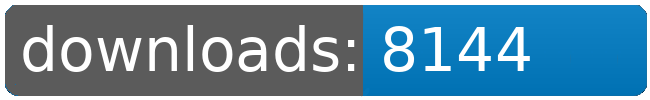
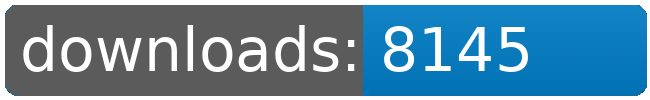
dl log written

Changed region(s): [[0.7692, 0.27, 0.8308, 0.72]]

diff --git a/README.md b/README.md
@@ -4,113 +4,113 @@
 <table>
 	<tr>
 		<td></td>
-		<td>2026-07-20</td>
 		<td>2026-07-21</td>
 		<td>2026-07-22</td>
 		<td>2026-07-23</td>
 		<td>2026-07-24</td>
 		<td>2026-07-25</td>
 		<td>2026-07-26</td>
+		<td>2026-07-27</td>
 		<td>today +</td>
 	</tr>
 	<tr>
 		<td>Bunsen.Burner</td>
-		<td>7667</td>
 		<td>7681</td>
 		<td>7695</td>
 		<td>7709</td>
 		<td>7723</td>
 		<td>7738</td>
 		<td>7755</td>
-		<td>+ 17</td>
+		<td>7755</td>
+		<td></td>
 	</tr>
 	<tr>
 		<td>Factory.Outlets</td>
-		<td>6748</td>
 		<td>6763</td>
 		<td>6777</td>
 		<td>6794</td>
 		<td>6809</td>
 		<td>6824</td>
 		<td>6840</td>
-		<td>+ 16</td>
+		<td>6840</td>
+		<td></td>
 	</tr>
 	<tr>
 		<td>Fundamental.Outfit.Expansion</td>
-		<td>8047</td>
 		<td>8063</td>
 		<td>8076</td>
 		<td>8094</td>
 		<td>8110</td>
 		<td>8128</td>
 		<td>8144</td>
-		<td>+ 16</td>
+		<td>8145</td>
+		<td>+ 1</td>
 	</tr>
 	<tr>
 		<td>Jaws</td>
-		<td>6583</td>
 		<td>6597</td>
 		<td>6613</td>
 		<td>6627</td>
 		<td>6641</td>
 		<td>6656</td>
 		<td>6672</td>
-		<td>+ 16</td>
+		<td>6672</td>
+		<td></td>
 	</tr>
 	<tr>
 		<td>Korunak.Defense.Drones</td>
-		<td>6804</td>
 		<td>6818</td>
 		<td>6833</td>
 		<td>6847</td>
 		<td>6861</td>
 		<td>6876</td>
 		<td>6892</td>
-		<td>+ 16</td>
+		<td>6892</td>
+		<td></td>
 	</tr>
 	<tr>
 		<td>Louise.Conglomerate.Shipyards</td>
-		<td>7446</td>
 		<td>7460</td>
 		<td>7474</td>
 		<td>7490</td>
 		<td>7506</td>
 		<td>7521</td>
 		<td>7539</td>
-		<td>+ 18</td>
+		<td>7539</td>
+		<td></td>
 	</tr>
 	<tr>
 		<td>Sheragi.Rebirth.Redux</td>
-		<td>62</td>
 		<td>63</td>
 		<td>63</td>
 		<td>64</td>
 		<td>65</td>
 		<td>65</td>
 		<td>66</td>
-		<td>+ 1</td>
+		<td>66</td>
+		<td></td>
 	</tr>
 	<tr>
 		<td>Solar.Sails</td>
-		<td>6709</td>
 		<td>6724</td>
 		<td>6738</td>
 		<td>6752</td>
 		<td>6766</td>
 		<td>6781</td>
 		<td>6795</td>
-		<td>+ 14</td>
+		<td>6795</td>
+		<td></td>
 	</tr>
 	<tr>
 		<td>Zone.of.Control</td>
-		<td>6531</td>
 		<td>6545</td>
 		<td>6559</td>
 		<td>6573</td>
 		<td>6586</td>
 		<td>6601</td>
 		<td>6617</td>
-		<td>+ 16</td>
+		<td>6617</td>
+		<td></td>
 	</tr>
 	<tr>
 		<td></td>
@@ -120,8 +120,8 @@
 		<td></td>
 		<td></td>
 		<td></td>
-		<td>57320</td>
-		<td>130</td>
+		<td>57321</td>
+		<td>1</td>
 	</tr>
 </table>
 </sub></sup>
@@ -129,113 +129,113 @@
 <table>
 	<tr>
 		<td></td>
-		<td>2026-07-20</td>
 		<td>2026-07-21</td>
 		<td>2026-07-22</td>
 		<td>2026-07-23</td>
 		<td>2026-07-24</td>
 		<td>2026-07-25</td>
 		<td>2026-07-26</td>
+		<td>2026-07-27</td>
 		<td>today +</td>
 	</tr>
 	<tr>
 		<td>Fundamental.Outfit.Expansion</td>
-		<td>8047</td>
 		<td>8063</td>
 		<td>8076</td>
 		<td>8094</td>
 		<td>8110</td>
 		<td>8128</td>
 		<td>8144</td>
-		<td>+ 16</td>
+		<td>8145</td>
+		<td>+ 1</td>
 	</tr>
 	<tr>
 		<td>Bunsen.Burner</td>
-		<td>7667</td>
 		<td>7681</td>
 		<td>7695</td>
 		<td>7709</td>
 		<td>7723</td>
 		<td>7738</td>
 		<td>7755</td>
-		<td>+ 17</td>
+		<td>7755</td>
+		<td></td>
 	</tr>
 	<tr>
 		<td>Louise.Conglomerate.Shipyards</td>
-		<td>7446</td>
 		<td>7460</td>
 		<td>7474</td>
 		<td>7490</td>
 		<td>7506</td>
 		<td>7521</td>
 		<td>7539</td>
-		<td>+ 18</td>
+		<td>7539</td>
+		<td></td>
 	</tr>
 	<tr>
 		<td>Korunak.Defense.Drones</td>
-		<td>6804</td>
 		<td>6818</td>
 		<td>6833</td>
 		<td>6847</td>
 		<td>6861</td>
 		<td>6876</td>
 		<td>6892</td>
-		<td>+ 16</td>
+		<td>6892</td>
+		<td></td>
 	</tr>
 	<tr>
 		<td>Factory.Outlets</td>
-		<td>6748</td>
 		<td>6763</td>
 		<td>6777</td>
 		<td>6794</td>
 		<td>6809</td>
 		<td>6824</td>
 		<td>6840</td>
-		<td>+ 16</td>
+		<td>6840</td>
+		<td></td>
 	</tr>
 	<tr>
 		<td>Solar.Sails</td>
-		<td>6709</td>
 		<td>6724</td>
 		<td>6738</td>
 		<td>6752</td>
 		<td>6766</td>
 		<td>6781</td>
 		<td>6795</td>
-		<td>+ 14</td>
+		<td>6795</td>
+		<td></td>
 	</tr>
 	<tr>
 		<td>Jaws</td>
-		<td>6583</td>
 		<td>6597</td>
 		<td>6613</td>
 		<td>6627</td>
 		<td>6641</td>
 		<td>6656</td>
 		<td>6672</td>
-		<td>+ 16</td>
+		<td>6672</td>
+		<td></td>
 	</tr>
 	<tr>
 		<td>Zone.of.Control</td>
-		<td>6531</td>
 		<td>6545</td>
 		<td>6559</td>
 		<td>6573</td>
 		<td>6586</td>
 		<td>6601</td>
 		<td>6617</td>
-		<td>+ 16</td>
+		<td>6617</td>
+		<td></td>
 	</tr>
 	<tr>
 		<td>Sheragi.Rebirth.Redux</td>
-		<td>62</td>
 		<td>63</td>
 		<td>63</td>
 		<td>64</td>
 		<td>65</td>
 		<td>65</td>
 		<td>66</td>
-		<td>+ 1</td>
+		<td>66</td>
+		<td></td>
 	</tr>
 	<tr>
 		<td></td>
@@ -245,8 +245,8 @@
 		<td></td>
 		<td></td>
 		<td></td>
-		<td>57320</td>
-		<td>130</td>
+		<td>57321</td>
+		<td>1</td>
 	</tr>
 </table>
 </sub></sup>
@@ -313,9 +313,9 @@
 		<td></td>
 	</tr>
 	<tr>
-		<td>286</td>
-		<td>21.66</td>
-		<td>6.61</td>
+		<td>287</td>
+		<td>21.58</td>
+		<td>6.59</td>
 		<td></td>
 		<td></td>
 	</tr>
